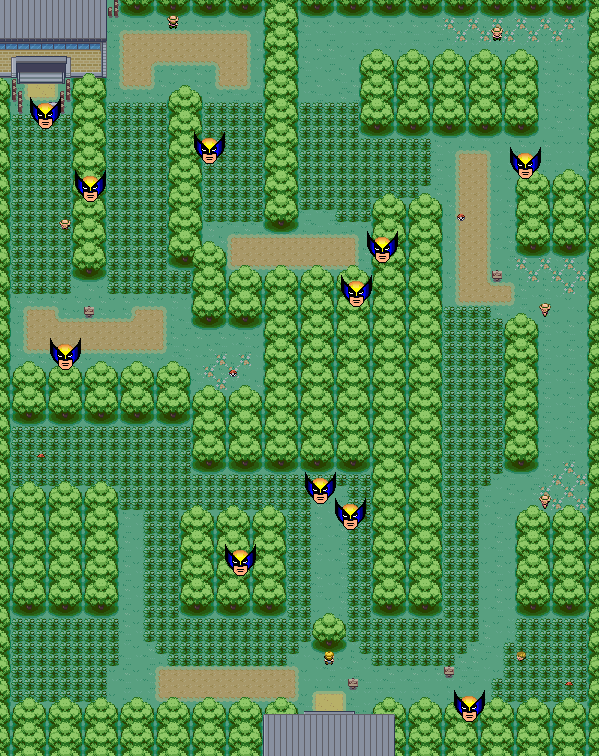
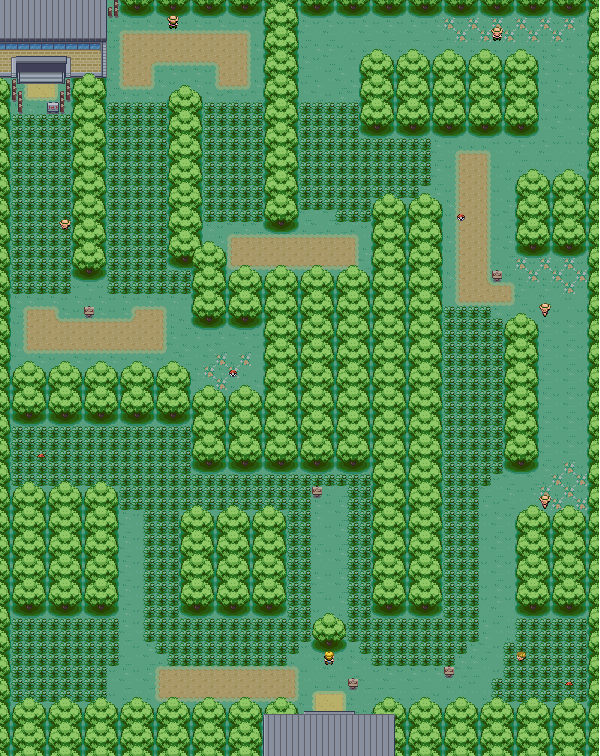
it now sends the initial cressn board after the refactor. I need to test it better

diff --git a/index.js b/index.js
@@ -1,28 +1,30 @@
 var drawing = require('./drawing')
-var SlackUpload = require('node-slack-upload');
-var path = require('path')
+
 var WebSocket = require('ws'),
-    apiToken = "", //Api Token from https://api.slack.com/web (Authentication section)
+    apiToken = "xoxp-2946387922-10526329685-10522542354-0a431f080b", //Api Token from https://api.slack.com/web (Authentication section)
     authUrl = "https://slack.com/api/rtm.start?token=" + apiToken,
     request = require("request"),
     userId = 'U0375BYGC', // Id for the user the bot is posting as
     channelId = 'C0USL6D2P'; // Id of the channel the bot is posting to
 
+var game = require('./game')
+var sutils = require('./slack-utils')(apiToken, channelId)
+var sendMessage = sutils.sendMessage
+var sendFile = sutils.sendFile
 
-var width = 600;
-var height = 756;
+console.log("Starting up ...")
 
-var game {
-	users : []
-}
 
 request(authUrl, function(err, response, body) {
   if (!err && response.statusCode === 200) {
     var res = JSON.parse(body);
-    if (res.ok) {
-      connectWebSocket(res.url);
-    }
+    if (res.ok)
+      	connectWebSocket(res.url);
+    else
+    	console.error("Error connecting to slack: " + err + "\nResponse: " + JSON.stringify(response) + "\nBody: " + body)
   }
+  else
+  	console.error("Error connecting to slack: " + err + "\nResponse: " + JSON.stringify(response) + "\nBody: " + body)
 });
 
 function connectWebSocket(url) {
@@ -33,13 +35,15 @@ function connectWebSocket(url) {
       var turno = 5
 
       sendMessage(ws, "Hola ! Arrancamos un juego ! Los turnos son cada " + turno + " minutos!");
-      drawing.createImage(game).then(function() {
-      	sendFile();	
-      })
+      drawing.createImage(game.game)
+        .then(function() {
+      		return sendFile("Turno " + game.game.roundNumber);	
+      	})
+      	.done()
 
       var CronJob = require('cron').CronJob;
 	  new CronJob('0 */' + turno + ' * * * *', function() {
-	  	  processTurn(ws, turno)
+	  	  game.processTurn(ws, turno)
 	  }, null, true, 'America/Los_Angeles');
 
   });
@@ -47,86 +51,8 @@ function connectWebSocket(url) {
   ws.on('message', function(message) {
       message = JSON.parse(message);
       if (message.channel === channelId && message.type === 'message' && message.user !== userId) {
-      	processMessage(ws, message)
+      	game.processMessage(ws, message)
       }
   });
-}
-
-function processTurn(ws, turno) {
-	game.users.forEach(function(u) { u.moved = false })
-	drawing.createImage(game).then(function() {
-      	return sendFile();	
-    }).then(function() {
-    	sendMessage("Tienen " + turno + " minutos para hacer su movimiento !")    	
-    })
-}
-
-function sendMessage(ws, text) {
-	ws.send(JSON.stringify({ channel: channelId, id: 1, text: text, type: "message" }));
-}
-
-function processMessage(ws, message) {
-	if (message.text === "arriba" || message.text === "abajo" || message.text === "izquierda" ||message.text === "derecha") {
-  		 var moved = false;
-  		 game.users.forEach(function(u) {
-  		 	if (u.userId === message.user) {
-  		 		if (u.moved) {
-  		 			var text = "Ya gastaste tu turno @" + message.user + ". Aguantá la capocha!"
-  		 			ws.send(JSON.stringify({ channel: channelId, id: 1, text: text, type: "message" }));
-  		 			moved = true
-  		 		}
-  		 		else {
-      		 		var delta = 50;
-      		 		var deltaX = (message.text === "izquierda") ? delta*-1 : ((message.text === "derecha") ? delta : 0);
-      		 		var deltaY = (message.text === "arriba") ? delta*-1 : ((message.text === "abajo") ? delta : 0);
-      		 		
-					u.position[0] = u.position[0] + deltaX;
-      		 		u.position[1] = u.position[1] + deltaY;
-
-      		 		u.moved = true
-  		 		}
-  		 	}
-  		 });
-  		 if (!moved) {
-  		 	var u = {userId: message.user, position : randomPosition(), image: "U03C73RAE"};
-  		 	users.push(u);
-  		 	u.moved = true;
-  		 }
-  	}
-}
-
-function randomPosition() { return [randomBetween(0, width) , randomBetween(0, height)]}
-
-function randomBetween(start, end) {
-	// TODO: round to 50 which is the steps (delta). I mean the grid cell size
-	return Math.floor(Math.random() * end) + start;
-}
-
-function sendFile() {
-	console.log("sending file...")
-	uploadFile('output.png', "Estado", channelId, function() {})
-}
-
-function uploadFile(fileName, text, channelId, then) {
-  var slack = new SlackUpload(apiToken);
-  console.log("Sending " + fileName + " con texto " + text + " en " + channelId);
-
-  var thepath = path.join(__dirname, 'output.png');
-
-  console.log("Sending " + thepath);
-	slack.uploadFile({
-		file: fs.createReadStream(thepath),
-		filetype: 'auto',
-		title: 'README',
-		initialComment: 'my initial commit',
-		channels: 'C0USL6D2P'
-	}, function(err) {
-		if (err) {
-			console.error(err);
-		}
-		else {
-			console.log('done');
-		}
-	});
 }
 

diff --git a/game.js b/game.js
@@ -1,6 +1,11 @@
+var sutils = require('./slack-utils')
+var sendMessage = sutils.sendMessage
+var sendFile = sutils.sendFile
+var drawing = require('./drawing')
 
 
 var Game = {
+	roundNumber : 1,
 	players : [],
 	cellSize : 50,
 	width : 600,
@@ -12,8 +17,15 @@ var Game = {
 		derecha: function(ws, message) { doWithPlayer(ws, message, function(player) { 	player.moveRight() 	}) }
 	},
 	doWithPlayer : function(ws, message, cb) {
-		cb(getOrCreatePlayer(message.user))
-		// maybe we could add a reaction to the user's message to indicate that the bot has executed the action (?)
+		var p = getOrCreatePlayer(message.user)
+		if (p.movedThisRound) {
+			sendMessage(ws, "Ya gastaste tu turno <@" + message.user + ">. Aguantá la capocha!")
+		}
+		else {
+			// maybe we could add a reaction to the user's message to indicate that the bot has executed the action (?) 
+			cb()
+		}
+
 	},
 	getOrCreatePlayer : function(id) {
 		var p = getPlayer(id)
@@ -27,12 +39,13 @@ var Game = {
   		return undefined;
 	},
 	createPlayer : function(id) {
-		var p = new Player(message.user)
-		players.push(p)
+		var p = new Player(id)
+		this.players.push(p)
 		return p
 	},
 	startRound : function() {
-		players.forEach(function(p) { p.startRound() });
+		this.roundNumber += 1
+		this.players.forEach(function(p) { p.startRound() })
 	}
 }
 
@@ -73,44 +86,19 @@ Position.randomBetween = function(start, end) {
 
 function processTurn(ws, turno) {
 	Game.startRound()
-	drawing.createImage(game)
+	drawing.createImage(Game)
 	  .then(function() {
-      	return sendFile();
-      }).then(function() {
-    	sendMessage("Nuevo turno ! Tienen " + turno + " minutos para hacer su movimiento !")    	
-    });
+      	return sendFile("Turno " + Game.roundNumber);
+      })
+      .then(function() {
+    	return sendMessage(ws, "Nuevo turno ! Tienen " + turno + " minutos para hacer su movimiento !")    	
+      })
+      .done();
 }
 
 function processMessage(ws, message) {
 	if (Game.commands[message.text]) {
-
 		Game.commands[message.text](ws, message);
-
-  		 var moved = false;
-  		 game.users.forEach(function(u) {
-  		 	if (u.userId === message.user) {
-  		 		if (u.moved) {
-  		 			var text = "Ya gastaste tu turno @" + message.user + ". Aguantá la capocha!"
-  		 			ws.send(JSON.stringify({ channel: channelId, id: 1, text: text, type: "message" }));
-  		 			moved = true
-  		 		}
-  		 		else {
-      		 		var delta = 50;
-      		 		var deltaX = (message.text === "izquierda") ? delta*-1 : ((message.text === "derecha") ? delta : 0);
-      		 		var deltaY = (message.text === "arriba") ? delta*-1 : ((message.text === "abajo") ? delta : 0);
-      		 		
-					u.position[0] = u.position[0] + deltaX;
-      		 		u.position[1] = u.position[1] + deltaY;
-
-      		 		u.moved = true
-  		 		}
-  		 	}
-  		 });
-  		 if (!moved) {
-  		 	var u = {userId: message.user, position : randomPosition(), image: "U03C73RAE"};
-  		 	users.push(u);
-  		 	u.moved = true;
-  		 }
   	}
 }
 
@@ -118,5 +106,6 @@ function processMessage(ws, message) {
 module.exports = {
 	processTurn : processTurn,
 	processMessage : processMessage,
-	Position : Position
+	Position : Position,
+	game : Game
 };

diff --git a/drawing.js b/drawing.js
@@ -7,7 +7,7 @@ var q = require('q');
 function createImage(game) {
 	var d = q.defer();
 
-	var canvas = new Canvas(width, height);
+	var canvas = new Canvas(game.width, game.height);
 	var ctx = canvas.getContext('2d');
 
 	fs.readFile(__dirname + '/forest.png', function(err, squid) {
@@ -29,42 +29,41 @@ function createImage(game) {
 
 function drawUsers(game, ctx, cb) {
 	var promises = [];
-	game.users.forEach(function(u) {
+	game.players.forEach(function(player) {
 		var d = q.defer();
-		fs.readFile(path.join(__dirname, u.image + '.png'), function(err, squid) {
+		fs.readFile(path.join(__dirname, player.getImageName() + '.png'), function(err, squid) {
 			if (err) throw err;
-			var img = new Image();
+			var img = new Image()
 			img.src = squid;
-			ctx.drawImage(img, u.position[0], u.position[1], img.width, img.height);
-			d.resolve();
+			ctx.drawImage(img, player.position.x, player.position.y, img.width, img.height);
+			d.resolve()
 		});
-		promises.push(d.promise);
+		promises.push(d.promise)
 	});
 
 	q.all(promises).then(function() {
-		cb();
+		return cb()
 	}).done();
 
 }
 
 function saveOut(canvas) {
-	var d = q.defer();
-	var out = fs.createWriteStream(__dirname + '/output.png');
-	var stream = canvas.pngStream();
+	var d = q.defer()
+	var out = fs.createWriteStream(__dirname + '/output.png')
+	var stream = canvas.pngStream()
 
 	stream.on('data', function(chunk) {
-	  out.write(chunk);
+	  out.write(chunk)
 	});
 
 	stream.on('end', function() {
-	  console.log('saved png');
-
+	  console.log('Saved png');
 	  out.end(function() {
-	  	d.resolve();
-	  });
-	});
+	  	d.resolve()
+	  })
+	})
 
-	return d.promise;
+	return d.promise
 }
 
 

diff --git a/slack-utils.js b/slack-utils.js
@@ -1,0 +1,48 @@
+var path = require('path')
+var SlackUpload = require('node-slack-upload');
+var q = require('q')
+var fs = require('fs')
+
+// this needs a refactor. Has hardcoded names of the channel, messages and images.
+
+module.exports = function(apiToken, channelId) {
+	var slack = new SlackUpload(apiToken)
+
+	function sendMessage(ws, text) {
+		ws.send(JSON.stringify({ channel: channelId, id: 1, text: text, type: "message" }));
+	}
+
+	function sendFile(name) {
+		console.log("Sending file...")
+		return uploadFile('output.png', name, channelId)
+	}
+
+	function uploadFile(fileName, text, channelId) {
+		var d = q.defer()
+	  	var thepath = path.join(__dirname, 'output.png')
+  		console.log("Sending " + thepath)
+		slack.uploadFile({
+			file: fs.createReadStream(thepath),
+			filetype: 'auto',
+			title: text,
+			initialComment: text,
+			channels: 'C0USL6D2P'
+		}, function(err) {
+			if (err) {
+				console.error(err)
+				d.reject(err)
+			}
+			else {
+				console.log('done')
+				d.resolve()
+			}
+		})
+		return q.promise
+	}
+
+	return {
+		sendMessage : sendMessage,
+		uploadFile : uploadFile,
+		sendFile : sendFile
+	}
+}
